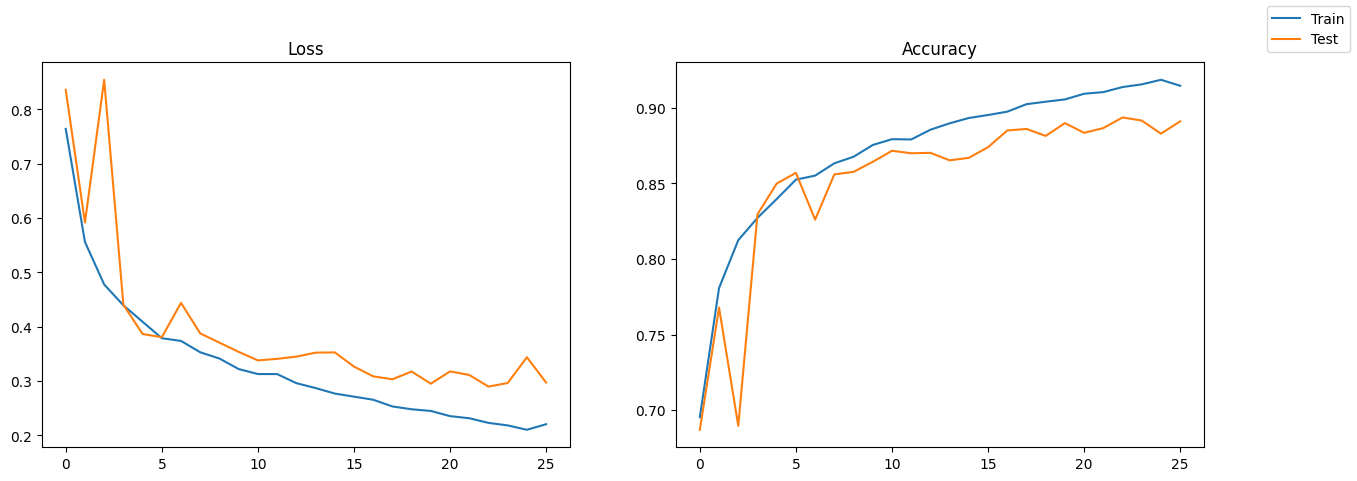
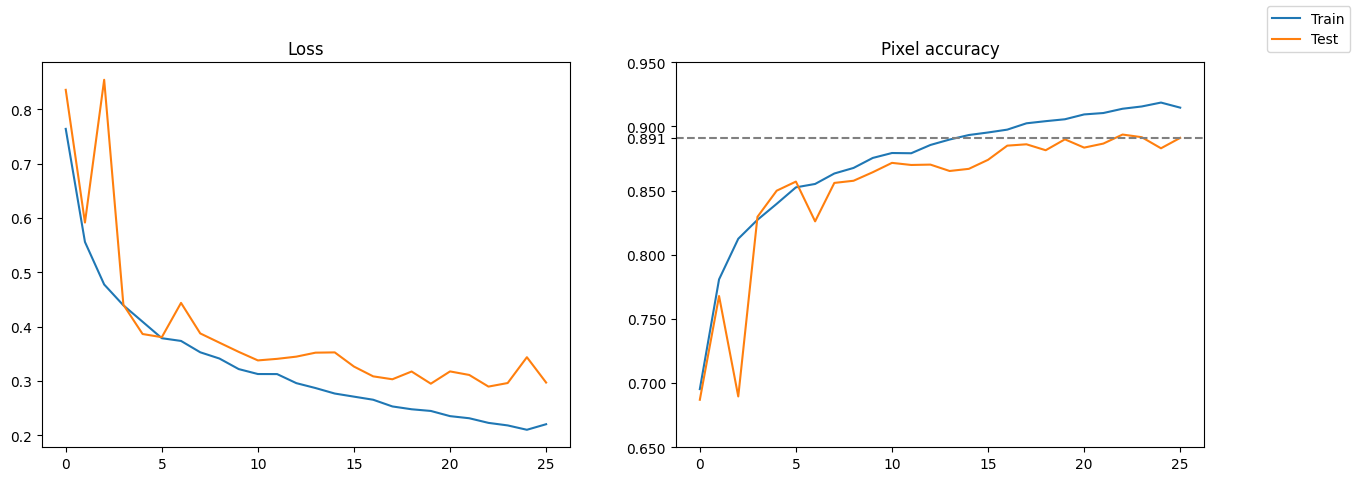
site update

diff --git a/docs/python/torch/computer_vision/unet.html b/docs/python/torch/computer_vision/unet.html
@@ -2,7 +2,7 @@
 <html xmlns="http://www.w3.org/1999/xhtml" lang="en" xml:lang="en"><head>
 
 <meta charset="utf-8">
-<meta name="generator" content="quarto-1.3.353">
+<meta name="generator" content="quarto-1.3.433">
 
 <meta name="viewport" content="width=device-width, initial-scale=1.0, user-scalable=yes">
 
@@ -89,7 +89,8 @@ pre > code.sourceCode > span > a:first-child::before { text-decoration: underlin
     "search-more-matches-text": "more matches in this document",
     "search-clear-button-title": "Clear",
     "search-detached-cancel-button-title": "Cancel",
-    "search-submit-button-title": "Submit"
+    "search-submit-button-title": "Submit",
+    "search-label": "Search"
   }
 }</script>
 
@@ -110,7 +111,7 @@ pre > code.sourceCode > span > a:first-child::before { text-decoration: underlin
       <nav class="quarto-page-breadcrumbs" aria-label="breadcrumb"><ol class="breadcrumb"><li class="breadcrumb-item">Python</li><li class="breadcrumb-item">Torch</li><li class="breadcrumb-item"><a href="../../../python/torch/computer_vision/basic.html">Computer vision</a></li><li class="breadcrumb-item"><a href="../../../python/torch/computer_vision/unet.html">Unet</a></li></ol></nav>
       <a class="flex-grow-1" role="button" data-bs-toggle="collapse" data-bs-target="#quarto-sidebar,#quarto-sidebar-glass" aria-controls="quarto-sidebar" aria-expanded="false" aria-label="Toggle sidebar navigation" onclick="if (window.quartoToggleHeadroom) { window.quartoToggleHeadroom(); }">      
       </a>
-      <button type="button" class="btn quarto-search-button" aria-label="Search" onclick="window.quartoOpenSearch();">
+      <button type="button" class="btn quarto-search-button" aria-label="" onclick="window.quartoOpenSearch();">
         <i class="bi bi-search"></i>
       </button>
     </div>
@@ -1242,10 +1243,11 @@ pre > code.sourceCode > span > a:first-child::before { text-decoration: underlin
   <li><a href="#model-fitting" id="toc-model-fitting" class="nav-link" data-scroll-target="#model-fitting">Model fitting</a>
   <ul class="collapse">
   <li><a href="#defining-model" id="toc-defining-model" class="nav-link" data-scroll-target="#defining-model">Defining model</a></li>
-  <li><a href="#train-funtions" id="toc-train-funtions" class="nav-link" data-scroll-target="#train-funtions">Train funtions</a></li>
+  <li><a href="#train-functions" id="toc-train-functions" class="nav-link" data-scroll-target="#train-functions">Train functions</a></li>
   <li><a href="#toy-example" id="toc-toy-example" class="nav-link" data-scroll-target="#toy-example">Toy example</a></li>
   <li><a href="#final-model" id="toc-final-model" class="nav-link" data-scroll-target="#final-model">Final model</a></li>
   </ul></li>
+  <li><a href="#visual-benchmark" id="toc-visual-benchmark" class="nav-link" data-scroll-target="#visual-benchmark">Visual benchmark</a></li>
   </ul>
 </nav>
     </div>
@@ -1285,7 +1287,7 @@ pre > code.sourceCode > span > a:first-child::before { text-decoration: underlin
 <span id="cb1-12"><a href="#cb1-12" aria-hidden="true" tabindex="-1"></a><span class="im">from</span> torchvision.datasets <span class="im">import</span> OxfordIIITPet</span>
 <span id="cb1-13"><a href="#cb1-13" aria-hidden="true" tabindex="-1"></a><span class="im">from</span> torchvision <span class="im">import</span> transforms <span class="im">as</span> T</span>
 <span id="cb1-14"><a href="#cb1-14" aria-hidden="true" tabindex="-1"></a></span>
-<span id="cb1-15"><a href="#cb1-15" aria-hidden="true" tabindex="-1"></a>test_picture <span class="op">=</span> <span class="dv">500</span></span></code><button title="Copy to Clipboard" class="code-copy-button"><i class="bi"></i></button></pre></div>
+<span id="cb1-15"><a href="#cb1-15" aria-hidden="true" tabindex="-1"></a>test_picture_index <span class="op">=</span> <span class="dv">500</span></span></code><button title="Copy to Clipboard" class="code-copy-button"><i class="bi"></i></button></pre></div>
 </div>
 <section id="data-set" class="level2">
 <h2 class="anchored" data-anchor-id="data-set">Data set</h2>
@@ -1308,12 +1310,12 @@ pre > code.sourceCode > span > a:first-child::before { text-decoration: underlin
 <span id="cb2-12"><a href="#cb2-12" aria-hidden="true" tabindex="-1"></a></span>
 <span id="cb2-13"><a href="#cb2-13" aria-hidden="true" tabindex="-1"></a>plt.figure(figsize <span class="op">=</span> (<span class="dv">10</span>, <span class="dv">9</span>))</span>
 <span id="cb2-14"><a href="#cb2-14" aria-hidden="true" tabindex="-1"></a>plt.subplot(<span class="dv">121</span>)</span>
-<span id="cb2-15"><a href="#cb2-15" aria-hidden="true" tabindex="-1"></a>plt.imshow(train_dataset[test_picture][<span class="dv">0</span>])</span>
+<span id="cb2-15"><a href="#cb2-15" aria-hidden="true" tabindex="-1"></a>plt.imshow(train_dataset[test_picture_index][<span class="dv">0</span>])</span>
 <span id="cb2-16"><a href="#cb2-16" aria-hidden="true" tabindex="-1"></a>plt.xticks([])<span class="op">;</span>plt.yticks([])</span>
 <span id="cb2-17"><a href="#cb2-17" aria-hidden="true" tabindex="-1"></a>plt.title(<span class="st">"Picture"</span>)</span>
 <span id="cb2-18"><a href="#cb2-18" aria-hidden="true" tabindex="-1"></a></span>
 <span id="cb2-19"><a href="#cb2-19" aria-hidden="true" tabindex="-1"></a>plt.subplot(<span class="dv">122</span>)</span>
-<span id="cb2-20"><a href="#cb2-20" aria-hidden="true" tabindex="-1"></a>plt.imshow(train_dataset[test_picture][<span class="dv">1</span>])</span>
+<span id="cb2-20"><a href="#cb2-20" aria-hidden="true" tabindex="-1"></a>plt.imshow(train_dataset[test_picture_index][<span class="dv">1</span>])</span>
 <span id="cb2-21"><a href="#cb2-21" aria-hidden="true" tabindex="-1"></a>plt.xticks([])<span class="op">;</span>plt.yticks([])</span>
 <span id="cb2-22"><a href="#cb2-22" aria-hidden="true" tabindex="-1"></a>plt.title(<span class="st">"Mask"</span>)</span>
 <span id="cb2-23"><a href="#cb2-23" aria-hidden="true" tabindex="-1"></a></span>
@@ -1351,15 +1353,15 @@ pre > code.sourceCode > span > a:first-child::before { text-decoration: underlin
 </div>
 <p>This is the shape of the tensor used as input to the model - it’s regular three channel picture.</p>
 <div class="cell" data-execution_count="4">
-<div class="sourceCode cell-code" id="cb4"><pre class="sourceCode python code-with-copy"><code class="sourceCode python"><span id="cb4-1"><a href="#cb4-1" aria-hidden="true" tabindex="-1"></a>train_dataset[test_picture][<span class="dv">0</span>].shape</span></code><button title="Copy to Clipboard" class="code-copy-button"><i class="bi"></i></button></pre></div>
+<div class="sourceCode cell-code" id="cb4"><pre class="sourceCode python code-with-copy"><code class="sourceCode python"><span id="cb4-1"><a href="#cb4-1" aria-hidden="true" tabindex="-1"></a>train_dataset[test_picture_index][<span class="dv">0</span>].shape</span></code><button title="Copy to Clipboard" class="code-copy-button"><i class="bi"></i></button></pre></div>
 <div class="cell-output cell-output-display" data-execution_count="4">
 <pre><code>torch.Size([3, 256, 256])</code></pre>
 </div>
 </div>
 <p>This is the shape and unique values that appear in the target. So it’s just an array whose shape is the same as the shape of the input images, but it only takes three values.</p>
 <div class="cell" data-execution_count="5">
-<div class="sourceCode cell-code" id="cb6"><pre class="sourceCode python code-with-copy"><code class="sourceCode python"><span id="cb6-1"><a href="#cb6-1" aria-hidden="true" tabindex="-1"></a><span class="bu">print</span>(<span class="st">"Shape:"</span>, <span class="bu">list</span>(train_dataset[test_picture][<span class="dv">1</span>].shape))</span>
-<span id="cb6-2"><a href="#cb6-2" aria-hidden="true" tabindex="-1"></a><span class="bu">print</span>(<span class="st">"Values:"</span>, <span class="bu">list</span>(train_dataset[test_picture][<span class="dv">1</span>].unique()))</span></code><button title="Copy to Clipboard" class="code-copy-button"><i class="bi"></i></button></pre></div>
+<div class="sourceCode cell-code" id="cb6"><pre class="sourceCode python code-with-copy"><code class="sourceCode python"><span id="cb6-1"><a href="#cb6-1" aria-hidden="true" tabindex="-1"></a><span class="bu">print</span>(<span class="st">"Shape:"</span>, <span class="bu">list</span>(train_dataset[test_picture_index][<span class="dv">1</span>].shape))</span>
+<span id="cb6-2"><a href="#cb6-2" aria-hidden="true" tabindex="-1"></a><span class="bu">print</span>(<span class="st">"Values:"</span>, <span class="bu">list</span>(train_dataset[test_picture_index][<span class="dv">1</span>].unique()))</span></code><button title="Copy to Clipboard" class="code-copy-button"><i class="bi"></i></button></pre></div>
 <div class="cell-output cell-output-stdout">
 <pre><code>Shape: [1, 256, 256]
 Values: [tensor(0), tensor(1), tensor(2)]</code></pre>
@@ -1370,9 +1372,9 @@ Values: [tensor(0), tensor(1), tensor(2)]</code></pre>
 <section id="architecture" class="level2">
 <h2 class="anchored" data-anchor-id="architecture">Architecture</h2>
 <p>Here is a description of the transformation sequence that we usually understand as the UNET architecture.</p>
-<p>To show sequence of trainsformations we will take one picture from dataset. But all transformations are usually performed on a batch of objects, so we need `unsqueeze(0)’ to simulate a batch of one object.</p>
+<p>To show sequence of trainsformations we will take one picture from dataset. But all transformations are usually performed on a batch of objects, so we need <code>unsqueeze(0)</code> to simulate a batch of one object.</p>
 <div class="cell" data-execution_count="6">
-<div class="sourceCode cell-code" id="cb8"><pre class="sourceCode python code-with-copy"><code class="sourceCode python"><span id="cb8-1"><a href="#cb8-1" aria-hidden="true" tabindex="-1"></a>example_image <span class="op">=</span> test_dataset[<span class="dv">0</span>][<span class="dv">0</span>].unsqueeze(<span class="dv">0</span>)</span>
+<div class="sourceCode cell-code" id="cb8"><pre class="sourceCode python code-with-copy"><code class="sourceCode python"><span id="cb8-1"><a href="#cb8-1" aria-hidden="true" tabindex="-1"></a>example_image <span class="op">=</span> train_dataset[test_picture_index][<span class="dv">0</span>].unsqueeze(<span class="dv">0</span>)</span>
 <span id="cb8-2"><a href="#cb8-2" aria-hidden="true" tabindex="-1"></a>example_image.shape</span></code><button title="Copy to Clipboard" class="code-copy-button"><i class="bi"></i></button></pre></div>
 <div class="cell-output cell-output-display" data-execution_count="6">
 <pre><code>torch.Size([1, 3, 256, 256])</code></pre>
@@ -1421,7 +1423,7 @@ Values: [tensor(0), tensor(1), tensor(2)]</code></pre>
 </section>
 <section id="down-blocks" class="level3">
 <h3 class="anchored" data-anchor-id="down-blocks">Down blocks</h3>
-<p>Each down block should first increase the number of channels and make the image smaller - downscale the image. But we need to save the state of the data after increasing the channels to use it later in up blocks.</p>
+<p>Each down block should first increase the number of channels and make the image smaller - downsample the image. But we need to save the state of the data after increasing the channels to use it later in up blocks.</p>
 <div class="cell" data-execution_count="10">
 <div class="sourceCode cell-code" id="cb13"><pre class="sourceCode python code-with-copy"><code class="sourceCode python"><span id="cb13-1"><a href="#cb13-1" aria-hidden="true" tabindex="-1"></a><span class="bu">print</span>(<span class="st">"Input shape:"</span>, example_image.shape)</span>
 <span id="cb13-2"><a href="#cb13-2" aria-hidden="true" tabindex="-1"></a>down1 <span class="op">=</span> conv_plus_conv(in_channels <span class="op">=</span> <span class="dv">3</span>, out_channels <span class="op">=</span> base_channels)</span>
@@ -1591,8 +1593,8 @@ Channels decreased shape: torch.Size([1, 16, 256, 256])</code></pre>
 </div>
 </div>
 </section>
-<section id="train-funtions" class="level3">
-<h3 class="anchored" data-anchor-id="train-funtions">Train funtions</h3>
+<section id="train-functions" class="level3">
+<h3 class="anchored" data-anchor-id="train-functions">Train functions</h3>
 <p>This is where we define the functions we’re going to use for the train model and evaluate its accuracy.</p>
 <div class="cell" data-execution_count="18">
 <div class="sourceCode cell-code" id="cb28"><pre class="sourceCode python code-with-copy"><code class="sourceCode python"><span id="cb28-1"><a href="#cb28-1" aria-hidden="true" tabindex="-1"></a><span class="kw">def</span> train(</span>
@@ -1781,7 +1783,7 @@ Channels decreased shape: torch.Size([1, 16, 256, 256])</code></pre>
 <span id="cb35-28"><a href="#cb35-28" aria-hidden="true" tabindex="-1"></a></span>
 <span id="cb35-29"><a href="#cb35-29" aria-hidden="true" tabindex="-1"></a>torch.save(model.state_dict(), <span class="st">'model.pt'</span>)</span>
 <span id="cb35-30"><a href="#cb35-30" aria-hidden="true" tabindex="-1"></a>pickle.dump(fit_monitoring, <span class="bu">open</span>(<span class="st">"fit_monitoring.pck"</span>, <span class="st">"wb"</span>))</span></code><button title="Copy to Clipboard" class="code-copy-button"><i class="bi"></i></button></pre></div>
-<p>The model quality scores by epoch are shown in the cell below:</p>
+<p>The model quality scores by epoch are shown in the cell below - final model gets almost 90% pixel accuracy on test sample.</p>
 <div class="cell" data-execution_count="21">
 <div class="sourceCode cell-code" id="cb36"><pre class="sourceCode python code-with-copy"><code class="sourceCode python"><span id="cb36-1"><a href="#cb36-1" aria-hidden="true" tabindex="-1"></a>fit_monitoring <span class="op">=</span> pickle.load(<span class="bu">open</span>(<span class="st">"unet_files/fit_monitoring.pck"</span>, <span class="st">"rb"</span>))</span>
 <span id="cb36-2"><a href="#cb36-2" aria-hidden="true" tabindex="-1"></a></span>
@@ -1793,52 +1795,141 @@ Channels decreased shape: torch.Size([1, 16, 256, 256])</code></pre>
 <span id="cb36-8"><a href="#cb36-8" aria-hidden="true" tabindex="-1"></a>plt.plot(fit_monitoring[<span class="st">"test_losses"</span>])</span>
 <span id="cb36-9"><a href="#cb36-9" aria-hidden="true" tabindex="-1"></a></span>
 <span id="cb36-10"><a href="#cb36-10" aria-hidden="true" tabindex="-1"></a>plt.subplot(<span class="dv">122</span>)</span>
-<span id="cb36-11"><a href="#cb36-11" aria-hidden="true" tabindex="-1"></a>plt.title(<span class="st">"Accuracy"</span>)</span>
+<span id="cb36-11"><a href="#cb36-11" aria-hidden="true" tabindex="-1"></a>plt.title(<span class="st">"Pixel accuracy"</span>)</span>
 <span id="cb36-12"><a href="#cb36-12" aria-hidden="true" tabindex="-1"></a>plt.plot(fit_monitoring[<span class="st">"train_accuracies"</span>])</span>
 <span id="cb36-13"><a href="#cb36-13" aria-hidden="true" tabindex="-1"></a>plt.plot(fit_monitoring[<span class="st">"test_accuracies"</span>])</span>
 <span id="cb36-14"><a href="#cb36-14" aria-hidden="true" tabindex="-1"></a></span>
-<span id="cb36-15"><a href="#cb36-15" aria-hidden="true" tabindex="-1"></a>fig.legend([<span class="st">"Train"</span>, <span class="st">"Test"</span>])</span>
-<span id="cb36-16"><a href="#cb36-16" aria-hidden="true" tabindex="-1"></a></span>
-<span id="cb36-17"><a href="#cb36-17" aria-hidden="true" tabindex="-1"></a>plt.show()</span></code><button title="Copy to Clipboard" class="code-copy-button"><i class="bi"></i></button></pre></div>
+<span id="cb36-15"><a href="#cb36-15" aria-hidden="true" tabindex="-1"></a>final_accuracy <span class="op">=</span> fit_monitoring[<span class="st">"test_accuracies"</span>][<span class="op">-</span><span class="dv">1</span>]</span>
+<span id="cb36-16"><a href="#cb36-16" aria-hidden="true" tabindex="-1"></a>plt.axhline(</span>
+<span id="cb36-17"><a href="#cb36-17" aria-hidden="true" tabindex="-1"></a>    final_accuracy,</span>
+<span id="cb36-18"><a href="#cb36-18" aria-hidden="true" tabindex="-1"></a>    color <span class="op">=</span> <span class="st">"gray"</span>,</span>
+<span id="cb36-19"><a href="#cb36-19" aria-hidden="true" tabindex="-1"></a>    linestyle <span class="op">=</span> <span class="st">"--"</span></span>
+<span id="cb36-20"><a href="#cb36-20" aria-hidden="true" tabindex="-1"></a>)</span>
+<span id="cb36-21"><a href="#cb36-21" aria-hidden="true" tabindex="-1"></a>plt.yticks(</span>
+<span id="cb36-22"><a href="#cb36-22" aria-hidden="true" tabindex="-1"></a>    np.concatenate([</span>
+<span id="cb36-23"><a href="#cb36-23" aria-hidden="true" tabindex="-1"></a>        plt.yticks()[<span class="dv">0</span>],</span>
+<span id="cb36-24"><a href="#cb36-24" aria-hidden="true" tabindex="-1"></a>        [<span class="bu">round</span>(final_accuracy,<span class="dv">3</span>)]</span>
+<span id="cb36-25"><a href="#cb36-25" aria-hidden="true" tabindex="-1"></a>    ])</span>
+<span id="cb36-26"><a href="#cb36-26" aria-hidden="true" tabindex="-1"></a>)</span>
+<span id="cb36-27"><a href="#cb36-27" aria-hidden="true" tabindex="-1"></a></span>
+<span id="cb36-28"><a href="#cb36-28" aria-hidden="true" tabindex="-1"></a>fig.legend([<span class="st">"Train"</span>, <span class="st">"Test"</span>])</span>
+<span id="cb36-29"><a href="#cb36-29" aria-hidden="true" tabindex="-1"></a></span>
+<span id="cb36-30"><a href="#cb36-30" aria-hidden="true" tabindex="-1"></a>plt.show()</span></code><button title="Copy to Clipboard" class="code-copy-button"><i class="bi"></i></button></pre></div>
 <div class="cell-output cell-output-display">
 <p><img src="unet_files/figure-html/cell-22-output-1.png" class="img-fluid"></p>
 </div>
 </div>
-<p>Finally, we want to show how the received model deals with a specific image from the test dataset.</p>
-<div class="cell" data-execution_count="22">
-<div class="sourceCode cell-code" id="cb37"><pre class="sourceCode python code-with-copy"><code class="sourceCode python"><span id="cb37-1"><a href="#cb37-1" aria-hidden="true" tabindex="-1"></a>model <span class="op">=</span> UNET()</span>
-<span id="cb37-2"><a href="#cb37-2" aria-hidden="true" tabindex="-1"></a>model.load_state_dict(</span>
-<span id="cb37-3"><a href="#cb37-3" aria-hidden="true" tabindex="-1"></a>    torch.load(</span>
-<span id="cb37-4"><a href="#cb37-4" aria-hidden="true" tabindex="-1"></a>        <span class="st">'unet_files/model.pt'</span>, </span>
-<span id="cb37-5"><a href="#cb37-5" aria-hidden="true" tabindex="-1"></a>        map_location<span class="op">=</span>torch.device(<span class="st">'cpu'</span>)</span>
-<span id="cb37-6"><a href="#cb37-6" aria-hidden="true" tabindex="-1"></a>    )</span>
-<span id="cb37-7"><a href="#cb37-7" aria-hidden="true" tabindex="-1"></a>)</span>
-<span id="cb37-8"><a href="#cb37-8" aria-hidden="true" tabindex="-1"></a></span>
-<span id="cb37-9"><a href="#cb37-9" aria-hidden="true" tabindex="-1"></a>plt.figure(figsize <span class="op">=</span> (<span class="dv">10</span>, <span class="dv">9</span>))</span>
+</section>
+</section>
+<section id="visual-benchmark" class="level2">
+<h2 class="anchored" data-anchor-id="visual-benchmark">Visual benchmark</h2>
+<p>Formal bemchmark is great but who actually cares what number you scored - let’s check on picutres. Everyone will draw their own conclusions about the quality of the model.</p>
+<div class="cell" data-execution_count="78">
+<div class="sourceCode cell-code" id="cb37"><pre class="sourceCode python code-with-copy"><code class="sourceCode python"><span id="cb37-1"><a href="#cb37-1" aria-hidden="true" tabindex="-1"></a><span class="co"># importing the model</span></span>
+<span id="cb37-2"><a href="#cb37-2" aria-hidden="true" tabindex="-1"></a>model <span class="op">=</span> UNET()</span>
+<span id="cb37-3"><a href="#cb37-3" aria-hidden="true" tabindex="-1"></a>model.load_state_dict(</span>
+<span id="cb37-4"><a href="#cb37-4" aria-hidden="true" tabindex="-1"></a>    torch.load(</span>
+<span id="cb37-5"><a href="#cb37-5" aria-hidden="true" tabindex="-1"></a>        <span class="st">'unet_files/model.pt'</span>, </span>
+<span id="cb37-6"><a href="#cb37-6" aria-hidden="true" tabindex="-1"></a>        map_location<span class="op">=</span>torch.device(<span class="st">'cpu'</span>)</span>
+<span id="cb37-7"><a href="#cb37-7" aria-hidden="true" tabindex="-1"></a>    )</span>
+<span id="cb37-8"><a href="#cb37-8" aria-hidden="true" tabindex="-1"></a>)</span>
+<span id="cb37-9"><a href="#cb37-9" aria-hidden="true" tabindex="-1"></a>model <span class="op">=</span> model.<span class="bu">eval</span>()</span>
 <span id="cb37-10"><a href="#cb37-10" aria-hidden="true" tabindex="-1"></a></span>
-<span id="cb37-11"><a href="#cb37-11" aria-hidden="true" tabindex="-1"></a>plt.subplot(<span class="dv">131</span>)</span>
-<span id="cb37-12"><a href="#cb37-12" aria-hidden="true" tabindex="-1"></a>plt.title(<span class="st">"Input"</span>)</span>
-<span id="cb37-13"><a href="#cb37-13" aria-hidden="true" tabindex="-1"></a>plt.imshow(T.ToPILImage()(test_dataset[<span class="dv">543</span>][<span class="dv">0</span>]))</span>
-<span id="cb37-14"><a href="#cb37-14" aria-hidden="true" tabindex="-1"></a>plt.xticks([])<span class="op">;</span>plt.yticks([])</span>
-<span id="cb37-15"><a href="#cb37-15" aria-hidden="true" tabindex="-1"></a></span>
-<span id="cb37-16"><a href="#cb37-16" aria-hidden="true" tabindex="-1"></a>plt.subplot(<span class="dv">132</span>)</span>
-<span id="cb37-17"><a href="#cb37-17" aria-hidden="true" tabindex="-1"></a>plt.title(<span class="st">"Target"</span>)</span>
-<span id="cb37-18"><a href="#cb37-18" aria-hidden="true" tabindex="-1"></a>plt.imshow(T.ToPILImage()(test_dataset[<span class="dv">543</span>][<span class="dv">1</span>].to(torch.uint8)))</span>
-<span id="cb37-19"><a href="#cb37-19" aria-hidden="true" tabindex="-1"></a>plt.xticks([])<span class="op">;</span>plt.yticks([])</span>
-<span id="cb37-20"><a href="#cb37-20" aria-hidden="true" tabindex="-1"></a></span>
-<span id="cb37-21"><a href="#cb37-21" aria-hidden="true" tabindex="-1"></a>plt.subplot(<span class="dv">133</span>)</span>
-<span id="cb37-22"><a href="#cb37-22" aria-hidden="true" tabindex="-1"></a>plt.title(<span class="st">"Predict"</span>)</span>
-<span id="cb37-23"><a href="#cb37-23" aria-hidden="true" tabindex="-1"></a>plt.imshow(model(test_dataset[<span class="dv">543</span>][<span class="dv">0</span>].unsqueeze(<span class="dv">0</span>))[<span class="dv">0</span>].<span class="bu">max</span>(dim<span class="op">=</span><span class="dv">0</span>)[<span class="dv">1</span>].to(torch.uint8))</span>
-<span id="cb37-24"><a href="#cb37-24" aria-hidden="true" tabindex="-1"></a>plt.xticks([])<span class="op">;</span>plt.yticks([])</span>
-<span id="cb37-25"><a href="#cb37-25" aria-hidden="true" tabindex="-1"></a></span>
-<span id="cb37-26"><a href="#cb37-26" aria-hidden="true" tabindex="-1"></a>plt.show()</span></code><button title="Copy to Clipboard" class="code-copy-button"><i class="bi"></i></button></pre></div>
+<span id="cb37-11"><a href="#cb37-11" aria-hidden="true" tabindex="-1"></a>np.random.seed(<span class="dv">20</span>)</span>
+<span id="cb37-12"><a href="#cb37-12" aria-hidden="true" tabindex="-1"></a></span>
+<span id="cb37-13"><a href="#cb37-13" aria-hidden="true" tabindex="-1"></a>indx <span class="op">=</span> np.random.randint(<span class="dv">0</span>, <span class="bu">len</span>(test_dataset), <span class="dv">20</span>)</span>
+<span id="cb37-14"><a href="#cb37-14" aria-hidden="true" tabindex="-1"></a></span>
+<span id="cb37-15"><a href="#cb37-15" aria-hidden="true" tabindex="-1"></a>inputs <span class="op">=</span> torch.stack([test_dataset[i][<span class="dv">0</span>] <span class="cf">for</span> i <span class="kw">in</span> indx])</span>
+<span id="cb37-16"><a href="#cb37-16" aria-hidden="true" tabindex="-1"></a>targets <span class="op">=</span> torch.stack([test_dataset[i][<span class="dv">1</span>] <span class="cf">for</span> i <span class="kw">in</span> indx]).to(torch.uint8)</span>
+<span id="cb37-17"><a href="#cb37-17" aria-hidden="true" tabindex="-1"></a>predicts <span class="op">=</span> model(inputs).<span class="bu">max</span>(dim <span class="op">=</span> <span class="dv">1</span>)[<span class="dv">1</span>].to(torch.uint8)</span>
+<span id="cb37-18"><a href="#cb37-18" aria-hidden="true" tabindex="-1"></a></span>
+<span id="cb37-19"><a href="#cb37-19" aria-hidden="true" tabindex="-1"></a><span class="kw">def</span> plot_result(<span class="bu">input</span>, target, predict):</span>
+<span id="cb37-20"><a href="#cb37-20" aria-hidden="true" tabindex="-1"></a>    picture_index <span class="op">=</span> <span class="dv">543</span></span>
+<span id="cb37-21"><a href="#cb37-21" aria-hidden="true" tabindex="-1"></a></span>
+<span id="cb37-22"><a href="#cb37-22" aria-hidden="true" tabindex="-1"></a>    plt.figure(figsize <span class="op">=</span> (<span class="dv">10</span>, <span class="dv">9</span>))</span>
+<span id="cb37-23"><a href="#cb37-23" aria-hidden="true" tabindex="-1"></a>    </span>
+<span id="cb37-24"><a href="#cb37-24" aria-hidden="true" tabindex="-1"></a>    plt.subplot(<span class="dv">131</span>)</span>
+<span id="cb37-25"><a href="#cb37-25" aria-hidden="true" tabindex="-1"></a>    plt.title(<span class="st">"Input"</span>)</span>
+<span id="cb37-26"><a href="#cb37-26" aria-hidden="true" tabindex="-1"></a>    plt.imshow(T.ToPILImage()(<span class="bu">input</span>))</span>
+<span id="cb37-27"><a href="#cb37-27" aria-hidden="true" tabindex="-1"></a>    plt.xticks([])<span class="op">;</span>plt.yticks([])</span>
+<span id="cb37-28"><a href="#cb37-28" aria-hidden="true" tabindex="-1"></a>    </span>
+<span id="cb37-29"><a href="#cb37-29" aria-hidden="true" tabindex="-1"></a>    plt.subplot(<span class="dv">132</span>)</span>
+<span id="cb37-30"><a href="#cb37-30" aria-hidden="true" tabindex="-1"></a>    plt.title(<span class="st">"Target"</span>)</span>
+<span id="cb37-31"><a href="#cb37-31" aria-hidden="true" tabindex="-1"></a>    plt.imshow(T.ToPILImage()(target))</span>
+<span id="cb37-32"><a href="#cb37-32" aria-hidden="true" tabindex="-1"></a>    plt.xticks([])<span class="op">;</span>plt.yticks([])</span>
+<span id="cb37-33"><a href="#cb37-33" aria-hidden="true" tabindex="-1"></a>    </span>
+<span id="cb37-34"><a href="#cb37-34" aria-hidden="true" tabindex="-1"></a>    plt.subplot(<span class="dv">133</span>)</span>
+<span id="cb37-35"><a href="#cb37-35" aria-hidden="true" tabindex="-1"></a>    plt.title(<span class="st">"Predict"</span>)</span>
+<span id="cb37-36"><a href="#cb37-36" aria-hidden="true" tabindex="-1"></a>    plt.imshow(predict)</span>
+<span id="cb37-37"><a href="#cb37-37" aria-hidden="true" tabindex="-1"></a>    plt.xticks([])<span class="op">;</span>plt.yticks([])</span>
+<span id="cb37-38"><a href="#cb37-38" aria-hidden="true" tabindex="-1"></a>    </span>
+<span id="cb37-39"><a href="#cb37-39" aria-hidden="true" tabindex="-1"></a>    plt.show()</span>
+<span id="cb37-40"><a href="#cb37-40" aria-hidden="true" tabindex="-1"></a></span>
+<span id="cb37-41"><a href="#cb37-41" aria-hidden="true" tabindex="-1"></a><span class="cf">for</span> i <span class="kw">in</span> <span class="bu">range</span>(<span class="bu">len</span>(indx)):</span>
+<span id="cb37-42"><a href="#cb37-42" aria-hidden="true" tabindex="-1"></a>    plot_result(inputs[i], targets[i], predicts[i])</span></code><button title="Copy to Clipboard" class="code-copy-button"><i class="bi"></i></button></pre></div>
 <div class="cell-output cell-output-display">
 <p><img src="unet_files/figure-html/cell-23-output-1.png" class="img-fluid"></p>
 </div>
+<div class="cell-output cell-output-display">
+<p><img src="unet_files/figure-html/cell-23-output-2.png" class="img-fluid"></p>
+</div>
+<div class="cell-output cell-output-display">
+<p><img src="unet_files/figure-html/cell-23-output-3.png" class="img-fluid"></p>
+</div>
+<div class="cell-output cell-output-display">
+<p><img src="unet_files/figure-html/cell-23-output-4.png" class="img-fluid"></p>
+</div>
+<div class="cell-output cell-output-display">
+<p><img src="unet_files/figure-html/cell-23-output-5.png" class="img-fluid"></p>
+</div>
+<div class="cell-output cell-output-display">
+<p><img src="unet_files/figure-html/cell-23-output-6.png" class="img-fluid"></p>
+</div>
+<div class="cell-output cell-output-display">
+<p><img src="unet_files/figure-html/cell-23-output-7.png" class="img-fluid"></p>
+</div>
+<div class="cell-output cell-output-display">
+<p><img src="unet_files/figure-html/cell-23-output-8.png" class="img-fluid"></p>
+</div>
+<div class="cell-output cell-output-display">
+<p><img src="unet_files/figure-html/cell-23-output-9.png" class="img-fluid"></p>
+</div>
+<div class="cell-output cell-output-display">
+<p><img src="unet_files/figure-html/cell-23-output-10.png" class="img-fluid"></p>
+</div>
+<div class="cell-output cell-output-display">
+<p><img src="unet_files/figure-html/cell-23-output-11.png" class="img-fluid"></p>
+</div>
+<div class="cell-output cell-output-display">
+<p><img src="unet_files/figure-html/cell-23-output-12.png" class="img-fluid"></p>
+</div>
+<div class="cell-output cell-output-display">
+<p><img src="unet_files/figure-html/cell-23-output-13.png" class="img-fluid"></p>
+</div>
+<div class="cell-output cell-output-display">
+<p><img src="unet_files/figure-html/cell-23-output-14.png" class="img-fluid"></p>
+</div>
+<div class="cell-output cell-output-display">
+<p><img src="unet_files/figure-html/cell-23-output-15.png" class="img-fluid"></p>
+</div>
+<div class="cell-output cell-output-display">
+<p><img src="unet_files/figure-html/cell-23-output-16.png" class="img-fluid"></p>
+</div>
+<div class="cell-output cell-output-display">
+<p><img src="unet_files/figure-html/cell-23-output-17.png" class="img-fluid"></p>
+</div>
+<div class="cell-output cell-output-display">
+<p><img src="unet_files/figure-html/cell-23-output-18.png" class="img-fluid"></p>
+</div>
+<div class="cell-output cell-output-display">
+<p><img src="unet_files/figure-html/cell-23-output-19.png" class="img-fluid"></p>
+</div>
+<div class="cell-output cell-output-display">
+<p><img src="unet_files/figure-html/cell-23-output-20.png" class="img-fluid"></p>
+</div>
 </div>
 
 
-</section>
 </section>
 
 </main> <!-- /main -->
